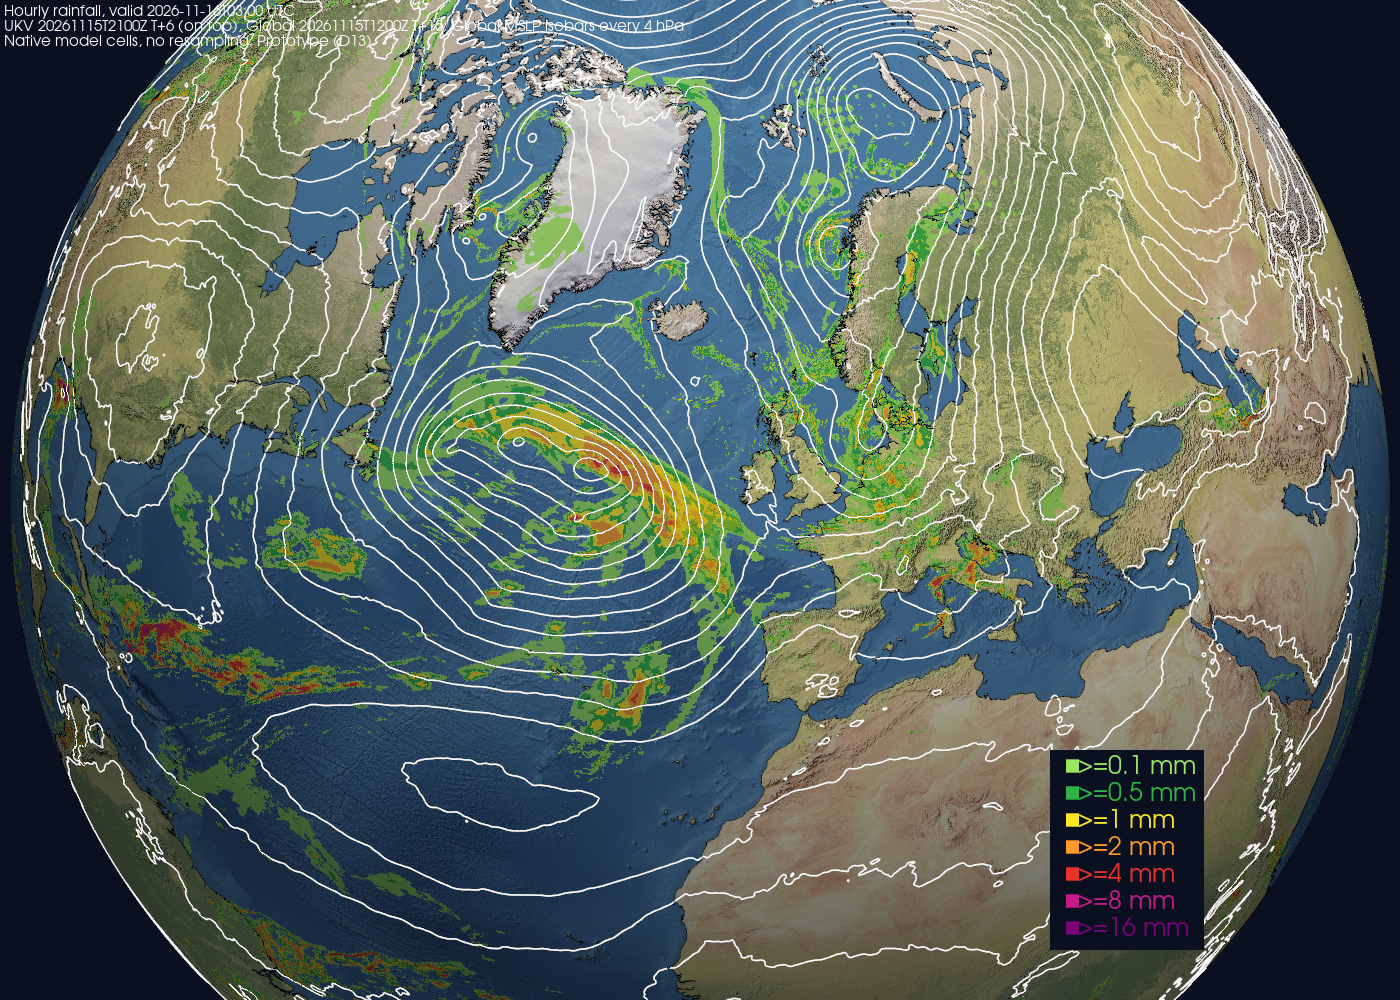
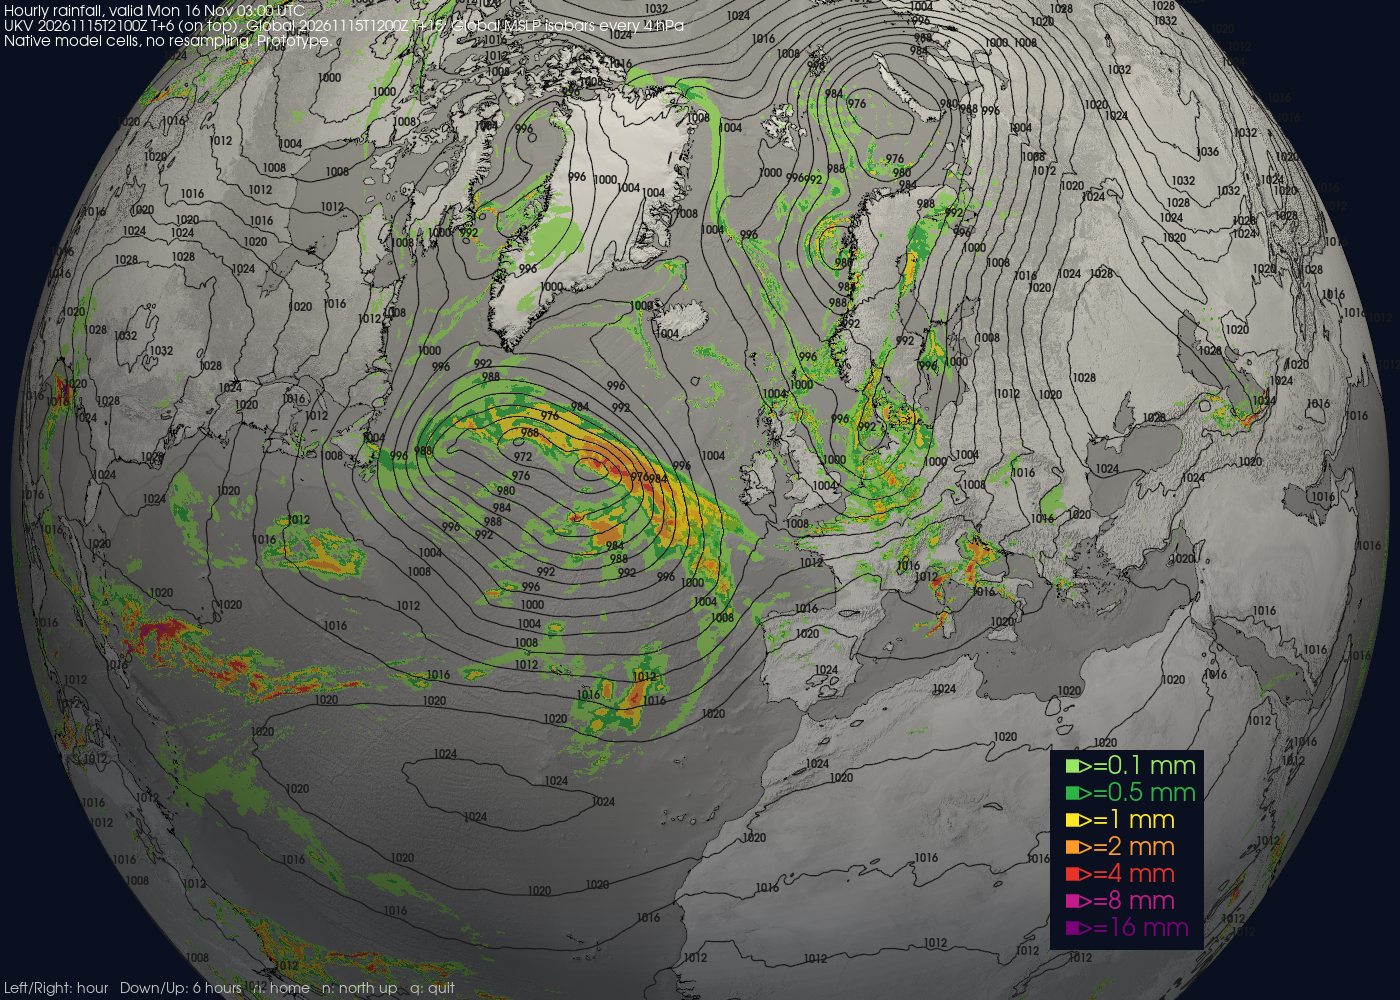
Grey base, labelled isobars, time stepping, home and north-up keys

diff --git a/globe.py b/globe.py
@@ -11,17 +11,23 @@ from the file's cell bounds (UKV in its Lambert equal-area metres
 turned into longitude/latitude by pyproj, Global straight from its
 latitude/longitude bounds). Nothing is resampled; the value on a cell is
 the value in the file. UKV sits on top of Global where the two overlap.
-Global MSLP is drawn as isobars.
+Global MSLP is drawn as labelled isobars.
+
+Keys: Left/Right one hour, Down/Up six hours, h home (Ireland, north
+up), n north up from the current view. Dragging keeps north up.
 """
 
 from __future__ import annotations
 
 import argparse
+import functools
 import glob
 import os
+from datetime import datetime, timedelta
 
 import geovista as gv
 import numpy as np
+import pyvista as pv
 import xarray as xr
 from pyproj import CRS, Transformer
 
@@ -29,19 +35,45 @@ HERE = os.path.dirname(os.path.abspath(__file__))
 # Default: the UKMO NWP tools' archive next to this project.
 ARCHIVE = os.path.normpath(os.path.join(HERE, "..", "ukmo_nwp", "data",
                                         "archive"))
+RAIN = "precipitation_accumulation"
+MSLP = "pressure_at_mean_sea_level"
 # Rainfall colour steps (mm in the hour), roughly as on the pages.
 LEVELS = [0.1, 0.5, 1, 2, 4, 8, 16]
-# Radar-style, so light rain stands out from the blue sea.
+# Radar-style colours; they stand out on the grey base.
 COLOURS = ["#9be564", "#2fb344", "#fde725", "#fd9a2a", "#e8322a",
            "#c51b8a", "#7a0177"]
+ISOBARS = np.arange(940, 1061, 4)
+HOME = (-8.0, 53.4, 7.0)            # lon, lat, zoom
+ATLANTIC = (-15.0, 52.0, 2.4)
+KEY_HELP = ("Left/Right: hour   Down/Up: 6 hours   "
+            "h: home   n: north up   q: quit")
 
 
-def _file(model, run, param, lead):
-    pat = os.path.join(ARCHIVE, model, run, param, f"*-PT{lead:04d}H00M-*")
-    hits = sorted(glob.glob(pat))
-    if not hits:
-        raise SystemExit(f"No file for {model} {run} {param} T+{lead}")
-    return hits[0]
+def _stamp(text):
+    return datetime.strptime(text, "%Y%m%dT%H%MZ")
+
+
+def _index(model, run, param):
+    """{valid time: file} for one run and parameter. The valid time is
+    the first part of each file name."""
+    out = {}
+    for path in glob.glob(os.path.join(ARCHIVE, model, run, param, "*.nc")):
+        out[_stamp(os.path.basename(path).split("-")[0])] = path
+    return out
+
+
+def _latest_run(model):
+    runs = sorted(os.listdir(os.path.join(ARCHIVE, model)))
+    if not runs:
+        raise SystemExit(f"No {model} runs in {ARCHIVE}")
+    return runs[-1]
+
+
+@functools.lru_cache(maxsize=6)
+def _values(path, name, scale):
+    """Raw values from one file (scaled to mm or hPa only)."""
+    with xr.open_dataset(path) as ds:
+        return ds[name].values * scale
 
 
 def _classes(mm):
@@ -52,43 +84,191 @@ def _classes(mm):
     return out
 
 
-def ukv_mesh(run, lead):
-    ds = xr.open_dataset(_file("ukv", run, "precipitation_accumulation",
-                               lead))
-    var = ds["lwe_thickness_of_precipitation_amount"]
-    gm = ds[var.attrs["grid_mapping"]].attrs
-    crs = CRS.from_cf(gm)
-    xb = ds["projection_x_coordinate_bnds"].values
-    yb = ds["projection_y_coordinate_bnds"].values
+def ukv_mesh(path):
+    with xr.open_dataset(path) as ds:
+        var = ds["lwe_thickness_of_precipitation_amount"]
+        crs = CRS.from_cf(ds[var.attrs["grid_mapping"]].attrs)
+        xb = ds["projection_x_coordinate_bnds"].values
+        yb = ds["projection_y_coordinate_bnds"].values
+        shape = var.shape
     xe = np.append(xb[:, 0], xb[-1, 1])
     ye = np.append(yb[:, 0], yb[-1, 1])
     xx, yy = np.meshgrid(xe, ye)
     lon, lat = Transformer.from_crs(crs, "EPSG:4326",
                                     always_xy=True).transform(xx, yy)
-    mm = var.values * 1000.0
-    mesh = gv.Transform.from_2d(lon, lat, data=_classes(mm), name="rain")
-    mesh.cell_data["mm"] = mm.ravel()
-    return mesh, str(ds["time"].values)[:16]
+    return gv.Transform.from_2d(lon, lat, data=np.full(shape, np.nan),
+                                name="rain")
 
 
-def global_meshes(run, lead):
-    ds = xr.open_dataset(_file("global10km", run,
-                               "precipitation_accumulation", lead))
-    lonb = ds["longitude_bnds"].values
-    latb = ds["latitude_bnds"].values
+def global_mesh(path):
+    with xr.open_dataset(path) as ds:
+        lonb = ds["longitude_bnds"].values
+        latb = ds["latitude_bnds"].values
     lons = np.append(lonb[:, 0], lonb[-1, 1])
     lats = np.append(latb[:, 0], latb[-1, 1])
-    mm = ds["lwe_thickness_of_precipitation_amount"].values * 1000.0
-    rain = gv.Transform.from_1d(lons, lats, data=_classes(mm), name="rain")
-    rain.cell_data["mm"] = mm.ravel()
+    return gv.Transform.from_1d(lons, lats,
+                                data=np.full((lats.size - 1, lons.size - 1),
+                                             np.nan), name="rain")
 
-    ps = xr.open_dataset(_file("global10km", run,
-                               "pressure_at_mean_sea_level", lead))
-    hpa = ps["air_pressure_at_sea_level"].values / 100.0
-    p = gv.Transform.from_1d(lons, lats, data=hpa, name="hPa")
-    isobars = p.cell_data_to_point_data().contour(
-        isosurfaces=np.arange(940, 1061, 4), scalars="hPa")
-    return rain, isobars, str(ds["time"].values)[:16]
+
+def grey_texture():
+    """Natural Earth I shaded relief, in light grey so coloured
+    forecast layers stand out."""
+    rgb = gv.natural_earth_1().to_array()[..., :3].astype(float)
+    grey = rgb @ [0.299, 0.587, 0.114]
+    grey = 95.0 + grey * 0.6                     # lighter, less contrast
+    return pv.Texture(np.dstack([grey] * 3).astype(np.uint8))
+
+
+def isobar_labels(isobars, spacing=0.12):
+    """Isobar values at points along the lines, about one per
+    ``spacing``-sized box (globe radii; 0.12 is about 750 km), lifted
+    just off the globe so the layers under them do not hide them."""
+    if isobars.n_points == 0:
+        return None, []
+    xyz = isobars.points
+    hpa = isobars.point_data["hPa"]
+    # One label per box and isobar value: the point nearest the box
+    # centre, so labels sit where the line crosses the box middle.
+    box = np.floor(xyz / spacing).astype(np.int64)
+    off = np.sum((xyz / spacing - box - 0.5) ** 2, axis=1)
+    key = np.column_stack([box, np.rint(hpa).astype(np.int64)])
+    order = np.lexsort((off, *key.T[::-1]))
+    _, first = np.unique(key[order], axis=0, return_index=True)
+    kept = order[first]
+    # Boxes in a chequerboard only, so neighbours' labels do not touch.
+    kept = kept[np.sum(box[kept], axis=1) % 2 == 0]
+    return xyz[kept] * 1.004, [f"{hpa[i]:.0f}" for i in kept]
+
+
+class Globe:
+    def __init__(self, args):
+        self.ukv_run = args.ukv_run or _latest_run("ukv")
+        self.glo_run = args.global_run or _latest_run("global10km")
+        self.ukv_rain = _index("ukv", self.ukv_run, RAIN)
+        self.glo_rain = _index("global10km", self.glo_run, RAIN)
+        self.glo_mslp = _index("global10km", self.glo_run, MSLP)
+        self.times = sorted(set(self.glo_rain) & set(self.glo_mslp))
+        if not self.times:
+            raise SystemExit(f"No Global rain/MSLP in {self.glo_run}")
+        if args.valid:
+            start = _stamp(args.valid)
+        else:
+            both = [t for t in self.times if t in self.ukv_rain]
+            start = both[0] if both else self.times[0]
+        if start not in self.times:
+            raise SystemExit(f"No Global data valid {args.valid}")
+        self.i = self.times.index(start)
+
+        self.ukv = ukv_mesh(next(iter(self.ukv_rain.values()))) \
+            if self.ukv_rain else None
+        self.glo = global_mesh(self.glo_rain[self.times[0]])
+        self.pres = global_mesh(self.glo_mslp[self.times[0]])
+        self.dynamic = []
+
+        pl = self.pl = gv.GeoPlotter(off_screen=bool(args.screenshot),
+                                     window_size=(1400, 1000))
+        pl.set_background("#0b1020")
+        texture = (gv.natural_earth_1() if args.base == "colour"
+                   else grey_texture())
+        pl.add_base_layer(texture=texture, zlevel=0)
+        common = dict(scalars="rain", cmap=COLOURS, clim=(0, len(LEVELS)),
+                      nan_opacity=0.0, show_scalar_bar=False,
+                      n_colors=len(LEVELS))
+        # GeoVista draws a copy of each mesh: keep the drawn one, so a
+        # new time step changes what is on screen.
+        self.glo = pl.add_mesh(self.glo, zlevel=2, opacity=0.85,
+                               **common).mapper.dataset
+        if self.ukv is not None:
+            self.ukv = pl.add_mesh(self.ukv, zlevel=4,
+                                   **common).mapper.dataset
+        pl.add_coastlines(color="black", line_width=1, zlevel=8)
+        pl.add_legend([(f">={v:g} mm", c) for v, c in zip(LEVELS, COLOURS)],
+                      bcolor="#0b1020", face="rectangle",
+                      size=(0.11, 0.2), loc="lower right")
+        pl.add_text(KEY_HELP, position="lower_left", font_size=9,
+                    color="#c8c8c8", name="keys")
+
+        lon, lat, zoom = ATLANTIC if args.view == "atlantic" else HOME
+        self.go_to(lon, lat, zoom)
+        self.home = pl.camera_position
+        # Terrain style turns the globe about its axis and tilts it,
+        # never rolls it: north stays up while dragging.
+        pl.enable_terrain_style(mouse_wheel_zooms=True, shift_pans=True)
+        pl.add_key_event("Right", lambda: self.step(1))
+        pl.add_key_event("Left", lambda: self.step(-1))
+        pl.add_key_event("Up", lambda: self.step(6))
+        pl.add_key_event("Down", lambda: self.step(-6))
+        pl.add_key_event("h", self.go_home)
+        pl.add_key_event("n", self.north_up)
+        self.show_time()
+
+    # ---- view ----
+    def go_to(self, lon, lat, zoom):
+        self.pl.view_poi(x=lon, y=lat)
+        self.pl.camera.zoom(zoom)
+        self.north_up(render=False)
+
+    def go_home(self):
+        self.pl.camera_position = self.home
+        self.pl.render()
+
+    def north_up(self, render=True):
+        cam = self.pl.camera
+        cam.up = (0.0, 0.0, 1.0)
+        cam.OrthogonalizeViewUp()
+        if render:
+            self.pl.render()
+
+    # ---- time ----
+    def step(self, n, render=True):
+        self.i = int(np.clip(self.i + n, 0, len(self.times) - 1))
+        self.show_time()
+        if render:
+            self.pl.render()
+
+    def show_time(self):
+        pl, t = self.pl, self.times[self.i]
+        mm = _values(self.glo_rain[t],
+                     "lwe_thickness_of_precipitation_amount", 1000.0)
+        self.glo.cell_data["rain"] = _classes(mm).ravel()
+        ukv_text = "UKV: no data"
+        if self.ukv is not None:
+            if t in self.ukv_rain:
+                mm = _values(self.ukv_rain[t],
+                             "lwe_thickness_of_precipitation_amount", 1000.0)
+                self.ukv.cell_data["rain"] = _classes(mm).ravel()
+                ukv_text = f"UKV {self.ukv_run} T+{self._lead(t, self.ukv_run)}"
+            else:
+                self.ukv.cell_data["rain"][:] = np.nan
+                self.ukv.Modified()
+
+        hpa = _values(self.glo_mslp[t], "air_pressure_at_sea_level", 0.01)
+        self.pres.cell_data["hPa"] = hpa.ravel()
+        isobars = self.pres.cell_data_to_point_data().contour(
+            isosurfaces=ISOBARS, scalars="hPa")
+        for actor in self.dynamic:
+            pl.remove_actor(actor, render=False)
+        self.dynamic = [pl.add_mesh(isobars, color="#1a1a1a",
+                                    line_width=1.5, zlevel=6)]
+        pts, labels = isobar_labels(isobars)
+        if pts is not None:
+            self.dynamic.append(pl.add_point_labels(
+                pts, labels, font_size=11, text_color="#1a1a1a",
+                shape=None, show_points=False, always_visible=False,
+                render=False))
+
+        pl.add_text(f"Hourly rainfall, valid {t:%a %d %b %H:%M} UTC\n"
+                    f"{ukv_text} (on top), Global {self.glo_run} "
+                    f"T+{self._lead(t, self.glo_run)}; "
+                    "Global MSLP isobars every 4 hPa\n"
+                    "Native model cells, no resampling. Prototype.",
+                    position="upper_left", font_size=10, color="white",
+                    name="title")
+
+    @staticmethod
+    def _lead(t, run):
+        return int((t - _stamp(run)) / timedelta(hours=1))
 
 
 def main():
@@ -96,56 +276,27 @@ def main():
     ap = argparse.ArgumentParser(description=__doc__.splitlines()[0])
     ap.add_argument("--archive", default=ARCHIVE,
                     help="download archive folder (default: %(default)s)")
-    ap.add_argument("--ukv-run", default="20261115T2100Z")
-    ap.add_argument("--ukv-lead", type=int, default=6)
-    ap.add_argument("--global-run", default="20261115T1200Z")
-    ap.add_argument("--global-lead", type=int, default=15)
-    ap.add_argument("--screenshot", help="write a PNG and exit")
+    ap.add_argument("--ukv-run", help="default: newest in the archive")
+    ap.add_argument("--global-run", help="default: newest in the archive")
+    ap.add_argument("--valid", help="start time, e.g. 20261116T0300Z "
+                    "(default: first hour both models cover)")
+    ap.add_argument("--base", choices=["grey", "colour"], default="grey")
     ap.add_argument("--view", choices=["ireland", "atlantic"],
-                    default="atlantic")
+                    default="ireland")
+    ap.add_argument("--steps", type=int, default=0,
+                    help="hours to step before a screenshot (testing)")
+    ap.add_argument("--screenshot", help="write a PNG and exit")
     args = ap.parse_args()
     ARCHIVE = args.archive
 
-    ukv, ukv_t = ukv_mesh(args.ukv_run, args.ukv_lead)
-    glo, isobars, glo_t = global_meshes(args.global_run, args.global_lead)
-    if ukv_t != glo_t:
-        print(f"Warning: valid times differ (UKV {ukv_t}, Global {glo_t})")
-
-    pl = gv.GeoPlotter(off_screen=bool(args.screenshot),
-                       window_size=(1400, 1000))
-    pl.set_background("#0b1020")
-    pl.add_base_layer(texture=gv.natural_earth_1(), zlevel=0)
-    common = dict(scalars="rain", cmap=COLOURS, clim=(0, len(LEVELS)),
-                  nan_opacity=0.0, show_scalar_bar=False,
-                  n_colors=len(LEVELS))
-    pl.add_mesh(glo, zlevel=2, opacity=0.85, **common)
-    pl.add_mesh(ukv, zlevel=4, **common)
-    pl.add_mesh(isobars, color="white", line_width=1.5, zlevel=6)
-    pl.add_coastlines(color="black", line_width=1, zlevel=8)
-
-    pl.add_text(f"Hourly rainfall, valid {glo_t} UTC\n"
-                f"UKV {args.ukv_run} T+{args.ukv_lead} (on top), "
-                f"Global {args.global_run} T+{args.global_lead}; "
-                "Global MSLP isobars every 4 hPa\n"
-                "Native model cells, no resampling. Prototype.",
-                position="upper_left", font_size=10, color="white")
-    labels = [f">={v:g}" for v in LEVELS]
-    pl.add_legend(list(zip([f"{t} mm" for t in labels], COLOURS)),
-                  bcolor="#0b1020", face="rectangle", size=(0.11, 0.2),
-                  loc="lower right")
-
-    if args.view == "ireland":
-        pl.view_poi(x=-8.0, y=53.4)
-        pl.camera.zoom(7.0)
-    else:
-        pl.view_poi(x=-15.0, y=52.0)
-        pl.camera.zoom(2.4)
-
+    g = Globe(args)
+    if args.steps:
+        g.step(args.steps, render=False)
     if args.screenshot:
-        pl.show(screenshot=args.screenshot)
-        print("wrote", args.screenshot)
+        g.pl.show(screenshot=args.screenshot)
+        print("wrote", args.screenshot, "valid", g.times[g.i])
     else:
-        pl.show()
+        g.pl.show()
 
 
 if __name__ == "__main__":
